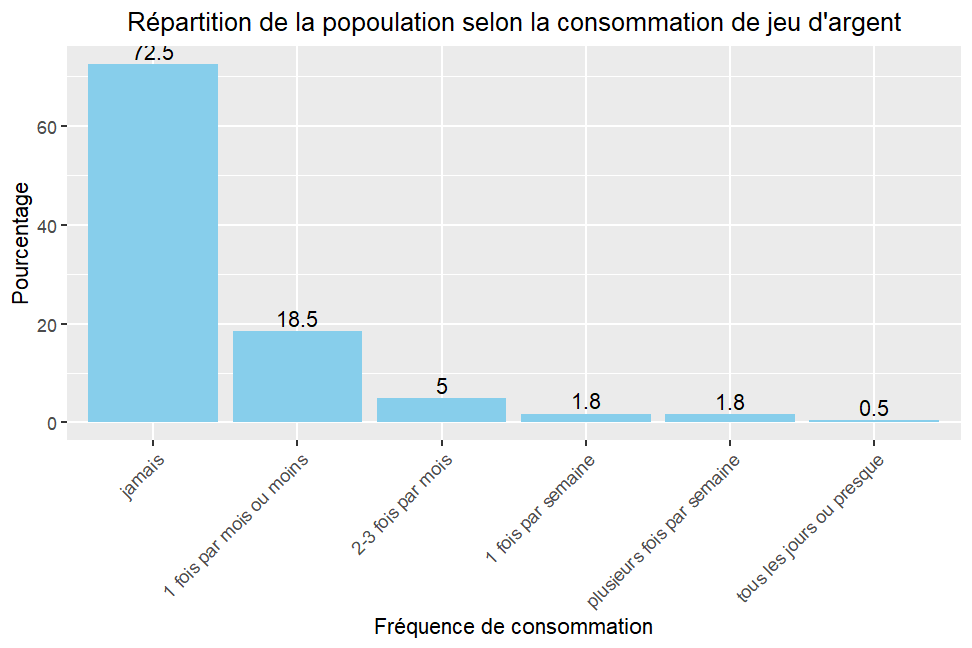
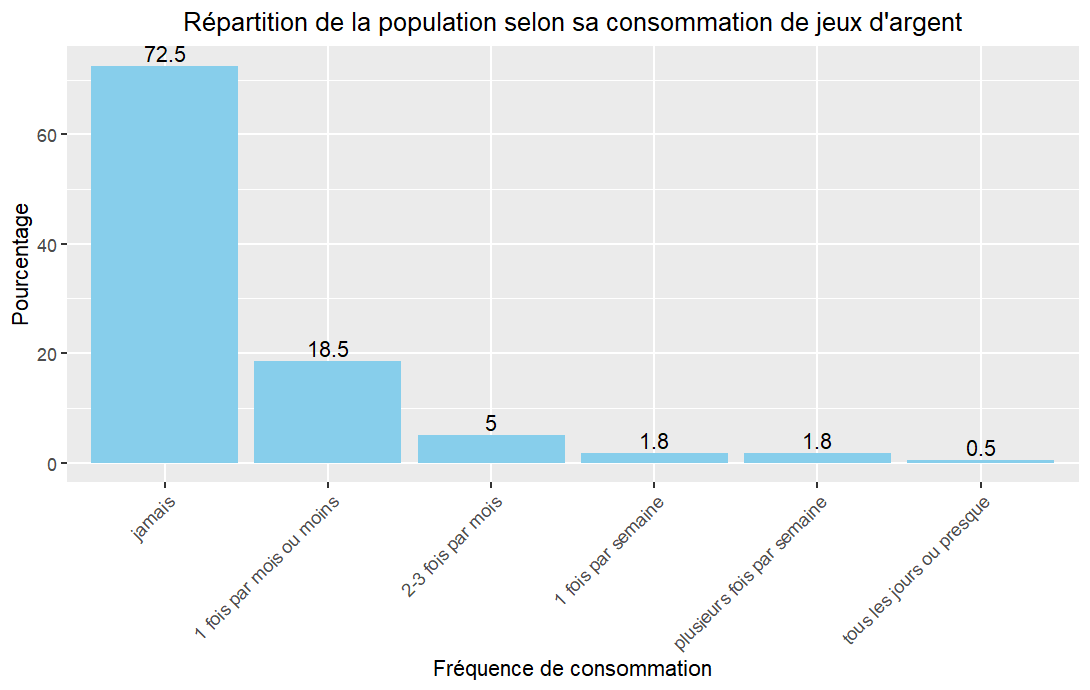
ca avance encore

diff --git a/Sections/p1.tex b/Sections/p1.tex
@@ -3,35 +3,57 @@
 \subsection{Quelles sont les pratiques de consommation du jeu ?}
 
 
-\vskip 10pt Avant de s’intéresser aux rapports observés entre la santé et la
+\vskip 10pt Avant d'aborder les rapports observés entre la santé et la
 consommation de jeu, il faut connaître les pratiques de jeu de la population
 étudiée. En effet, il est important d’avoir une idée des différentes pratiques
-des joueurs, les tendances qui se dégagent vis-à-vis du jeu dans cette
-population ainsi que leur profil socio-démographique. Sauf mention du contraire
-toute les informations présentées par la suite impliquent les 12 mois précédant
-le remplissage du questionnaire. \vskip 10pt Intéressons-nous d’abord aux
+des joueurs et des tendances qui se dégagent vis-à-vis du jeu dans cette
+population, ainsi que leur profil socio-démographique. Sauf indication contraire,
+toutes les informations présentées par la suite concernent les 12 mois précédant
+le remplissage du questionnaire. 
+\vskip 10pt 
+Intéressons-nous d’abord aux
 consommateurs de jeu d’argent et à leurs préférences. Le jeu auquel le plus de
-sondés ont joué est le ticket à gratter. En effet , 19,1\% des sondés ont
+sondés ont joué est le ticket à gratter. En effet , 18,8\% des sondés ont
 gratté au moins un ticket dans les 12 derniers mois. Ils sont bien plus
-nombreux que ceux ayant joué à une machine à sous puisque ces derniers ne sont
-que 2,7\% des sondés. Mais cela ne veut pas dire que le ticket à gratter soit
-le jeu d'argent qui occupe le plus de place dans le qotidien des jeunes. En
-effet, il est important de regarder la fréquence de ce jeu pour déterminer son
-importance dans la consommation des jeux d’argent. Les jeux d’argent ne
-concernent pas une grande partie de la population.
+nombreux que ceux ayant joué au poker puisque ces derniers ne sont
+que 2,5\% des sondés. Mais cela ne veut pas dire que le ticket à gratter soit
+le jeu d'argent le plus représentatif du quotidien des jeunes. En
+effet, si relativement beaucoups de jeunes y ont joué, cela ne signifie pas pour autant 
+qu'ils y jouent régulierement. Cela ne vaut pas uniquement pour le ticket à gratter.
+La consommation régulière de jeu d’argent ne
+concerne pas une grande partie de la population.
 
 
-\begin{center}\includegraphics[width=1\textwidth]{Images/Frequence_conso_jeuxA.pdf}\\[2.0
-cm]\end{center}
-\textit{Note de lecture: 19\% des intérrogés jouent à des jeux d'argent moins d'une fois par mois}
+\begin{figure}[H]
+    \centering
+    \includegraphics[width=1\textwidth]{Images/frequence_3_jeu.png}
+    \caption{Fréquence des habitudes pour les paris sportifs, tickets à gratter et paris sportifs}
+    \label{Fréquence des habitudes pour les paris sportifs, tickets à gratter et paris sportifs}
+    \textit{Note de lecture: 0,6\% des intérrogés ne consomment des tickets à gratter qu'une fois par semaine.}\\
+    \textit{La modalité "jamais" trop imporatante, a été enlevée du graphique par soucis de lisibilité}\\
+    \textit{Source: Enquête ESCAPAD 2022.}
+
+\end{figure}
 
 \vskip10pt
 
-Le nombre de joueurs par catégorie est clairement décroissant en fonction de la
-fréquence de jeu. Ce sont seulement 4,1\% des sondés qui jouent plus d’une fois
-par mois à des tickets à gratter. En revanche ce pourcentage s‘élève à 5,7 pour
-les joueurs de paris sportifs. Le pari sportif semble donc être le jeu d’argent
-le plus consommé alors que le ticket à gratter est certes plus répandu mais
+\begin{figure}[H]
+    \centering
+    \includegraphics[width=1\textwidth]{Images/frequence_conso_JA.png}
+    \caption{Répartition de la population selon sa consommation de jeux d'argent}
+    \label{Répartition de la population selon sa consommation de jeux d'argent}
+    \textit{Note de lecture: 19\% des intérrogés jouent à des jeux d'argent moins d'une fois par mois}\\
+    \textit{Source: Enquête ESCAPAD 2022.}
+
+\end{figure}
+
+\vskip10pt
+
+Le nombre de joueurs par catégorie est géneralement décroissant en fonction de la
+fréquence de jeu. Ce sont seulement 3,9\% des sondés qui jouent plus d’une fois
+par mois à des tickets à gratter. En revanche ce pourcentage s‘élève à 5,5 pour
+les joueurs de paris sportifs. Le pari sportif semble donc être un jeu d’argent
+le plus consommé alors que le ticket à gratter est certes plus répendu mais
 semble plus occasionnel. On peut alors penser que cette consommation de paris
 sportifs s’explique par son accessibilité grâce au téléphone qui rends sa
 pratique plus évidente. Or la part de personnes qui parient principalement sur
@@ -42,15 +64,15 @@ l’année un poste de consommation relativement important, notamment pour des
 jeunes. La médiane des mises habituelles renseignées par les sondés est de 10€.
 Les mises annuelles de certains représentent donc d’importantes sommes,
 d’autant plus que plus un joueur pari, plus les sommes pariées sont en moyenne
-importantes. De plus on peut poser l'hypothese que les joueurs récurents sont
+importantes. De plus on peut poser l'hypothèse que les joueurs récurrents sont
 plus enclins à miser plusieurs fois par jour.
 \textit{il faut insérer ici un test du chi deux qui montre la dépendance entre les mises et la fréquence de jeu}
 
 
-\begin{table}[ht]
+\begin{table}[H]
     \centering
     \captionsetup{justification=centering}
-    \begin{tabular}{lccc}
+    \begin{tabular}{ |c|c|c|c| }
           \hline
            & Joueurs occasionnels & Joueurs hebdomadaires & Joueurs quotidiens
            \\ 
@@ -67,8 +89,18 @@ Les jeux vidéo sont bien plus populaires que les jeux d’argent, d'abord parce
 que plus de personnes y jouent. Cela s’explique peut-être par des normes
 sociales, économiques et législatives, notamment pour cette tranche d’âge qui
 n’est que partiellement majeure. 
-\begin{center}\includegraphics[width=1\textwidth]{Images/Fréquence_conso_jeuV2.pdf}\\[2.0
-cm]\end{center} Seulement 19\% déclarent ne jamais jouer à des jeux vidéos
+
+\begin{figure}[H]
+    \centering
+    \includegraphics[width=1\textwidth]{Images/frequence_conso_JV.png}
+    \caption{Répartition de la population selon sa consommation de jeux vidéo}
+    \label{Répartition de la population selon sa consommation de jeux vidéo}
+    \textit{Note de lecture: 17,5\% des intérrogés jouent à des jeux vidéo tous les jours ou presque.}\\
+    \textit{Source: Enquête ESCAPAD 2022.}
+
+\end{figure}
+
+Seulement 19\% déclarent ne jamais jouer à des jeux vidéos
 alors que ce chiffre s'élève à 73\% pour les jeux d’argent. 44\% des sondés
 jouent aux jeux vidéo au moins plusieurs fois par semaine et 80\% au moins une
 fois par mois. De plus, on joue plus ouvent aux jeux vidéos qu'aux jeux
